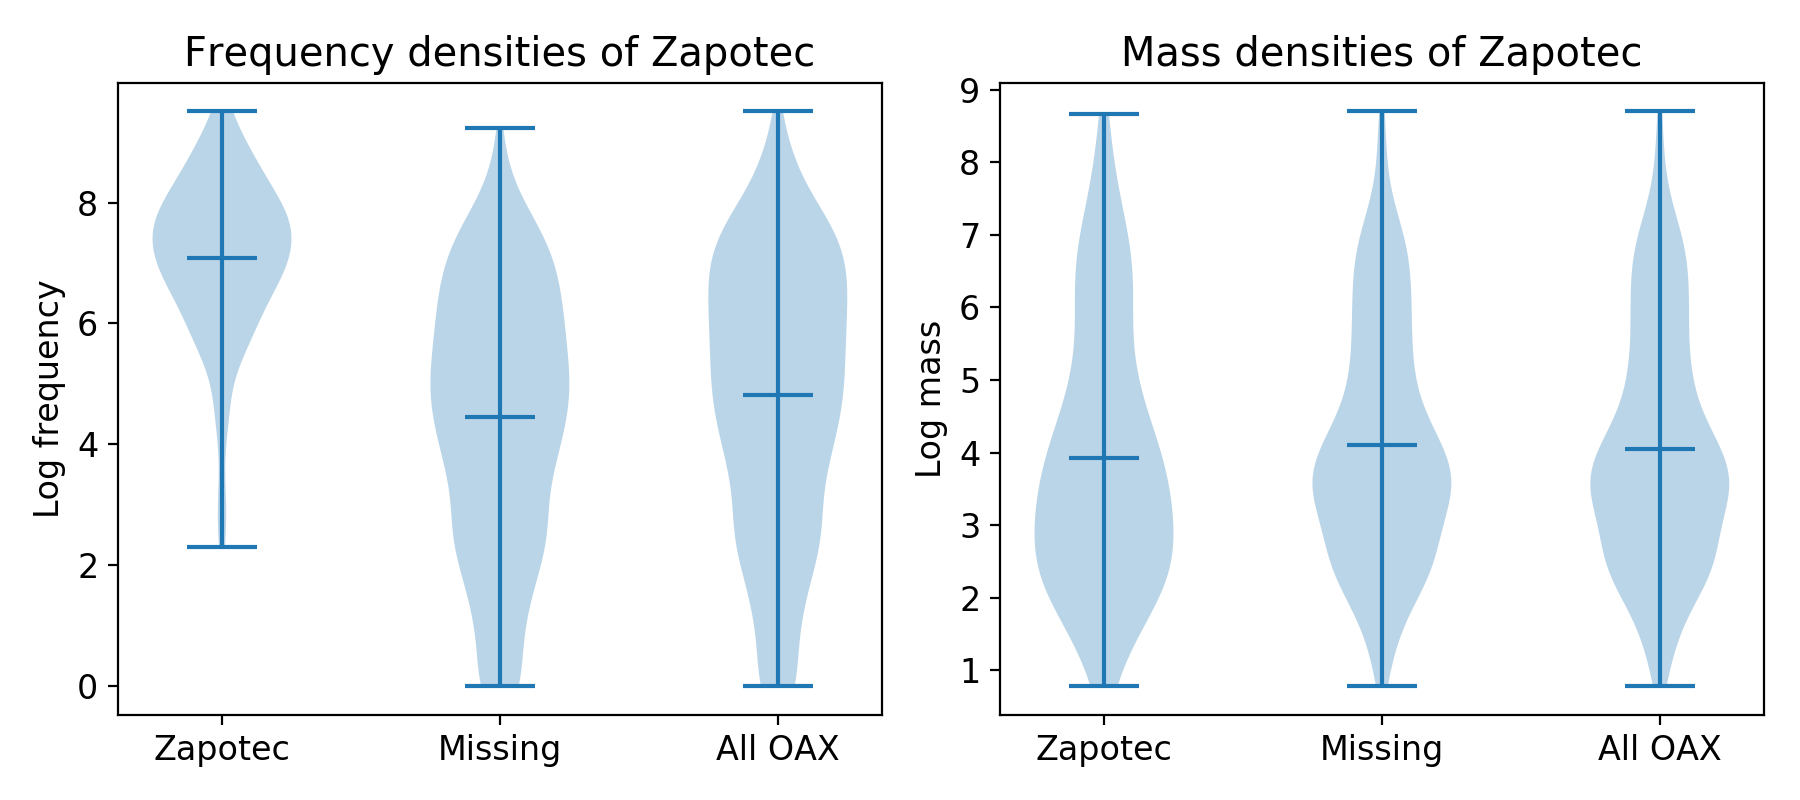
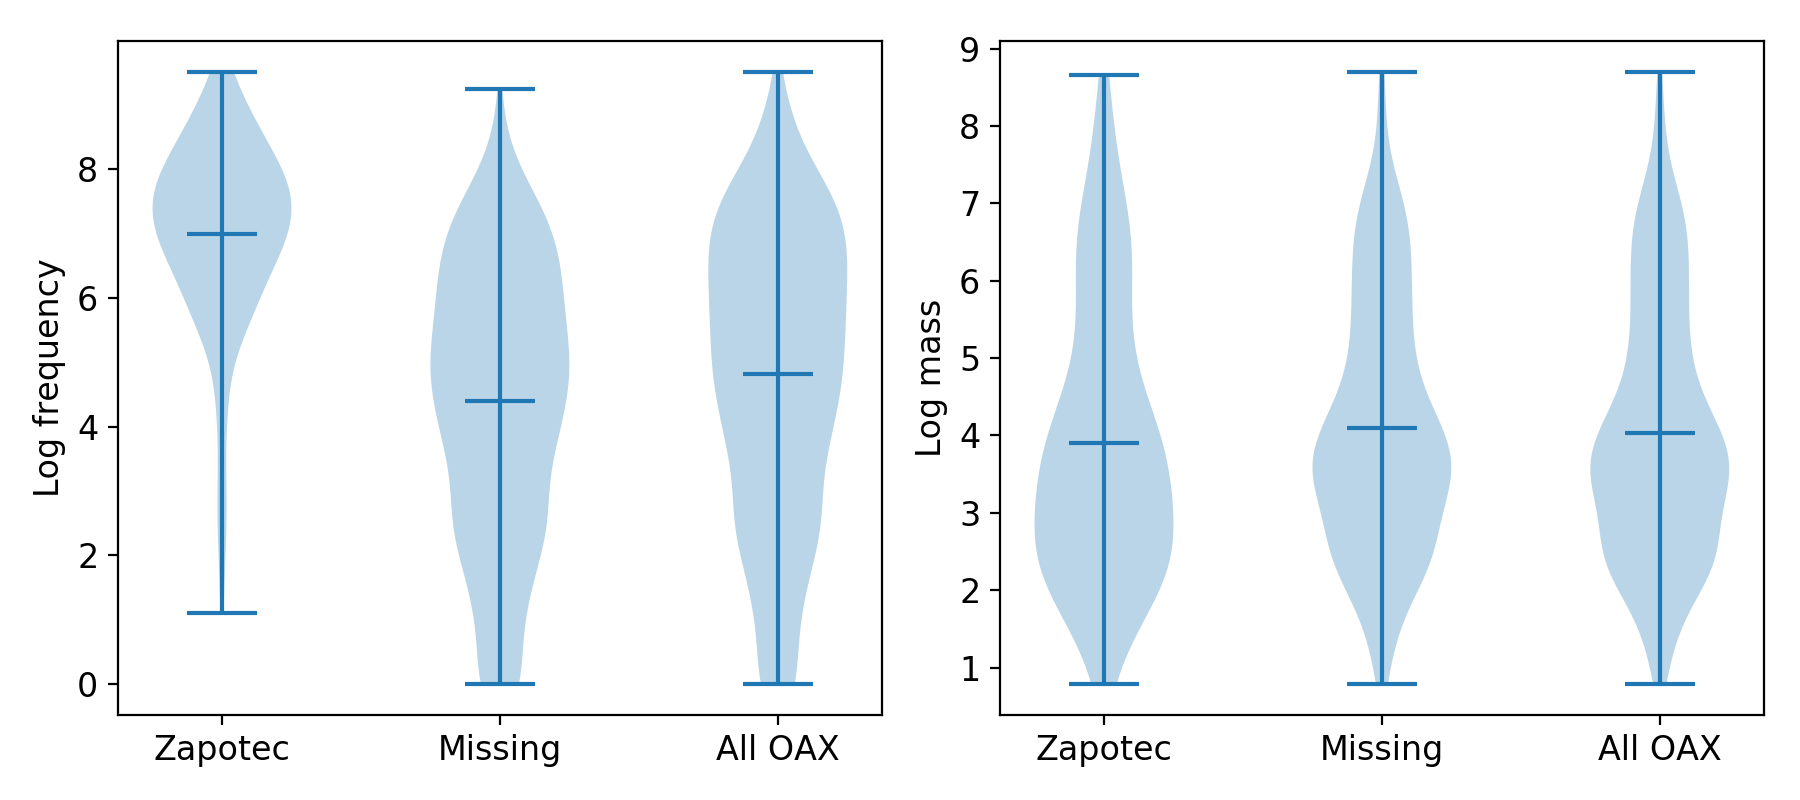
made final edits to paper

diff --git a/code/makefigs_cogsci2020.py b/code/makefigs_cogsci2020.py
@@ -64,11 +64,11 @@ def get_terminallevel(zapotec_data):
 # zapotec_data_all = pd.read_csv('./data/df_zapotec.csv')
 zapotec_data_all = pd.read_csv('./data/df_zapotec_fullfeats_cogsci2020.csv')
 
-df = zapotec_data_all[zapotec_data_all['folk_generic'].notna()] 
+zapotec_data_only = zapotec_data_all[zapotec_data_all['folk_generic'].notna()] 
 
-basic_levels = get_basiclevel(df)
-basic_level_names = list(set(df['folk_generic']))
-terminal_names = get_terminallevel(df)
+basic_levels = get_basiclevel(zapotec_data_only)
+basic_level_names = list(set(zapotec_data_only['folk_generic']))
+terminal_names = get_terminallevel(zapotec_data_only)
 
 # load ebird data
 ebd_data = pd.read_csv('./data/ebird_MX-OAX_cogsci_clean.csv')
@@ -86,8 +86,8 @@ bird_counts = get_birdcounts(ebd_data)
 
 # violin plot (with log frequency of occurrence)
 
-bird_list = list(df['species'])
-freqs = list(df['freq'])
+bird_list = list(zapotec_data_only['species'])
+freqs = list(zapotec_data_only['freq'])
 # bird_list = list(df[df['folk_generic'].notna()]['species'])
 # freqs = list(df[df['folk_generic'].notna()]['freq'])
 
@@ -109,7 +109,7 @@ pos = [1,2,3]
 plotnames = ('Zapotec','Missing','All OAX')
 # plt.figure()
 plt.violinplot([data_zapotec,missing_data,data_all],pos,showmeans=True) 
-plt.title('Frequency densities of Zapotec')
+# plt.title('Frequency densities of Zapotec')
 plt.xticks(pos,plotnames)
 plt.ylabel('Log frequency')
 
@@ -144,7 +144,7 @@ pos = [1,2,3]
 plotnames = ('Zapotec','Missing','All OAX')
 # plt.figure()
 plt.violinplot([data_zapotec,missing_data,data_all],pos,showmeans=True) 
-plt.title('Mass densities of Zapotec')
+# plt.title('Mass densities of Zapotec')
 plt.xticks(pos,plotnames)
 plt.ylabel('Log mass')
 
@@ -174,15 +174,15 @@ zs = []
 for bird_species in bird_list:
     # get basic level
 
-    if float(df[df['species'] == bird_species]['freq']) > 0.0:
+    if float(zapotec_data_only[zapotec_data_only['species'] == bird_species]['freq']) > 0.0:
 	    basic_taxon = basic_levels[bird_species]
 	    len_unique_species_in_basic = len(list(set(zapotec_data_all[zapotec_data_all['folk_generic'] == basic_taxon]['species'])))
 	    # SSRR_species[bird_species] = 1/len_unique_species_in_basic
 	    SSRR_species[bird_species] = len_unique_species_in_basic
 	    # xs.append(bird_sizes[bird_species])
-	    xs.append(float(df[df['species'] == bird_species]['mass']))
+	    xs.append(float(zapotec_data_only[zapotec_data_only['species'] == bird_species]['mass']))
 	    ys.append(SSRR_species[bird_species])
-	    zs.append(float(df[df['species'] == bird_species]['freq']))
+	    zs.append(float(zapotec_data_only[zapotec_data_only['species'] == bird_species]['freq']))
     
 
 
@@ -245,7 +245,7 @@ def get_barheights_freq(bar_species,bird_list,df):
 	heights = []
 	for bird_name in bar_species:
 		if bird_name in bird_list:
-			heights.append(float(df[df['species'] == bird_name]['freq']))
+			heights.append(float(zapotec_data_only[zapotec_data_only['species'] == bird_name]['freq']))
 		else:
 			heights.append(0.0)
 
@@ -257,7 +257,7 @@ prototypes = ['Cathartes aura','Buteo jamaicensis','Columba livia',
 'Haemorhous mexicanus']
 
 # read zapotec data
-df = pd.read_csv('./data/df_zapotec.csv')
+# df = pd.read_csv('./data/df_zapotec.csv')
 
 plt.figure(figsize=(12, 6), dpi=100, facecolor='w', edgecolor='k')
 
@@ -266,7 +266,7 @@ plt.subplot(2, 3, 1)
 bar_species = ['Cathartes aura','Coragyps atratus','Sarcoramphus papa']
 bar_labels = ('Turkey','Black','King')
 subplot_title = 'Vultures'
-heights = get_barheights_freq(bar_species,bird_list,df)
+heights = get_barheights_freq(bar_species,bird_list,zapotec_data_only)
 pos = [1,2,3]
 clrs = ['black','lightgrey','lightgrey']
 sns.barplot(pos,heights,palette=clrs,edgecolor="Black")
@@ -278,7 +278,7 @@ plt.subplot(2, 3, 2)
 bar_species = ['Columba livia','Patagioenas fasciata']
 bar_labels = ('Rock','Band-tailed')
 subplot_title = 'Pigeons'
-heights = get_barheights_freq(bar_species,bird_list,df)
+heights = get_barheights_freq(bar_species,bird_list,zapotec_data_only)
 pos = [1,2]
 clrs = ['black','lightgrey']
 sns.barplot(pos,heights,palette=clrs,edgecolor="Black")
@@ -290,7 +290,7 @@ plt.subplot(2, 3, 3)
 bar_species = ['Buteo jamaicensis','Accipiter cooperii','Buteo brachyurus','Buteo albonotatus','Falco peregrinus','Accipiter striatus']
 bar_labels = ('Red-tailed','Coopers','Short-tailed','Zone-tailed','Peregrine Falcon','Sharp-shinned')
 subplot_title = 'Hawks'
-heights = get_barheights_freq(bar_species,bird_list,df)
+heights = get_barheights_freq(bar_species,bird_list,zapotec_data_only)
 pos = [1,2,3,4,5,6]
 plt.title(subplot_title)
 clrs = ['black','lightgrey','lightgrey','lightgrey','lightgrey','lightgrey']
@@ -302,7 +302,7 @@ plt.subplot(2, 3, 4)
 bar_species = ['Ciccaba virgata','Bubo virginianus','Asio stygius']
 bar_labels = ('Mottled','Great Horned','Stygian')
 subplot_title = 'Owls'
-heights = get_barheights_freq(bar_species,bird_list,df)
+heights = get_barheights_freq(bar_species,bird_list,zapotec_data_only)
 pos = [1,2,3]
 clrs = ['lightgrey','black','lightgrey']
 sns.barplot(pos,heights,palette=clrs,edgecolor="Black")
@@ -314,7 +314,7 @@ plt.subplot(2, 3, 5)
 bar_species = ['Haemorhous mexicanus','Icterus wagleri','Pheucticus melanocephalus','Piranga rubra']
 bar_labels = ('House','Black-vented','Black-headed','Summer Tanager')
 subplot_title = 'Finches'
-heights = get_barheights_freq(bar_species,bird_list,df)
+heights = get_barheights_freq(bar_species,bird_list,zapotec_data_only)
 pos = [1,2,3,4]
 clrs = ['black','lightgrey','lightgrey','lightgrey']
 sns.barplot(pos,heights,palette=clrs,edgecolor="Black")
@@ -327,7 +327,7 @@ plt.subplot(2, 3, 6)
 bar_species = ['Thryomanes bewickii','Catherpes mexicanus','Oreothlypis superciliosa','Troglodytes aedon','Henicorhina leucophrys','Salpinctes obsoletus']
 bar_labels = ('Bewicks','Canyon','Crescent-chested','Brown-throated','Gray-breasted','Rock')
 subplot_title = 'Wrens'
-heights = get_barheights_freq(bar_species,bird_list,df)
+heights = get_barheights_freq(bar_species,bird_list,zapotec_data_only)
 pos = [1,2,3,4,5,6]
 clrs = ['black','lightgrey','lightgrey','lightgrey','lightgrey','lightgrey']
 sns.barplot(pos,heights,palette=clrs,edgecolor="Black")

diff --git a/paper/cogsci2020_final.tex b/paper/cogsci2020_final.tex
@@ -157,7 +157,7 @@ Next we explore how named species are organized into categories. In particular, 
 
 \begin{figure*}[!ht]
   \begin{center}
-    \includegraphics[width=0.95\textwidth]{./figures/ssrr-singlespecies.png}
+    \includegraphics[width=0.98\textwidth]{./figures/ssrr-singlespecies.png}
     \vspace{-0.1in}
         \caption{Category size plots for both frequency (left column) and mass (right column). Category size is defined as the number of other species a bird is grouped with under the same folk-generic name. Each point represents a bird species named in Zapotec.}
         \label{fig-ssrr}
